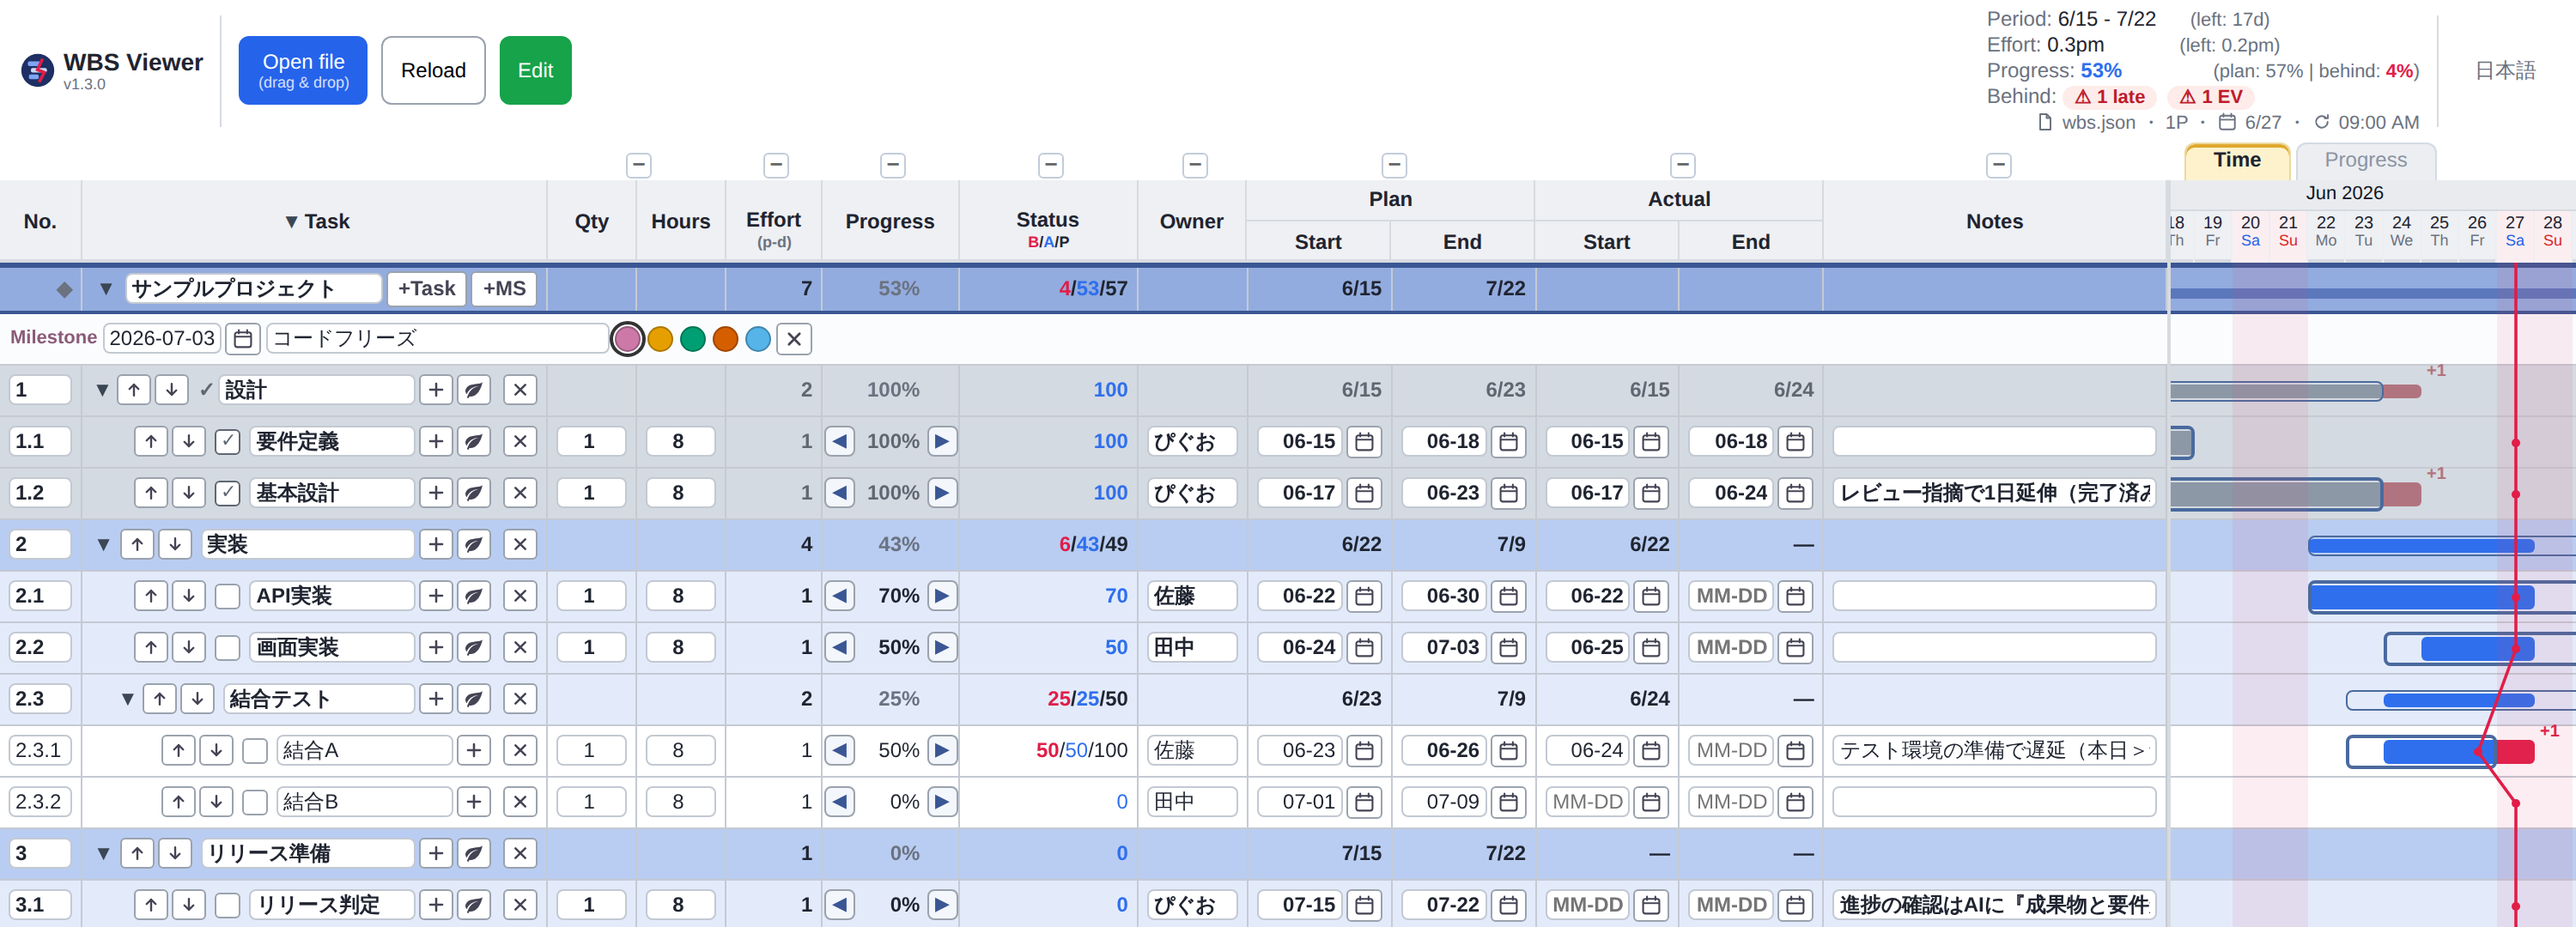
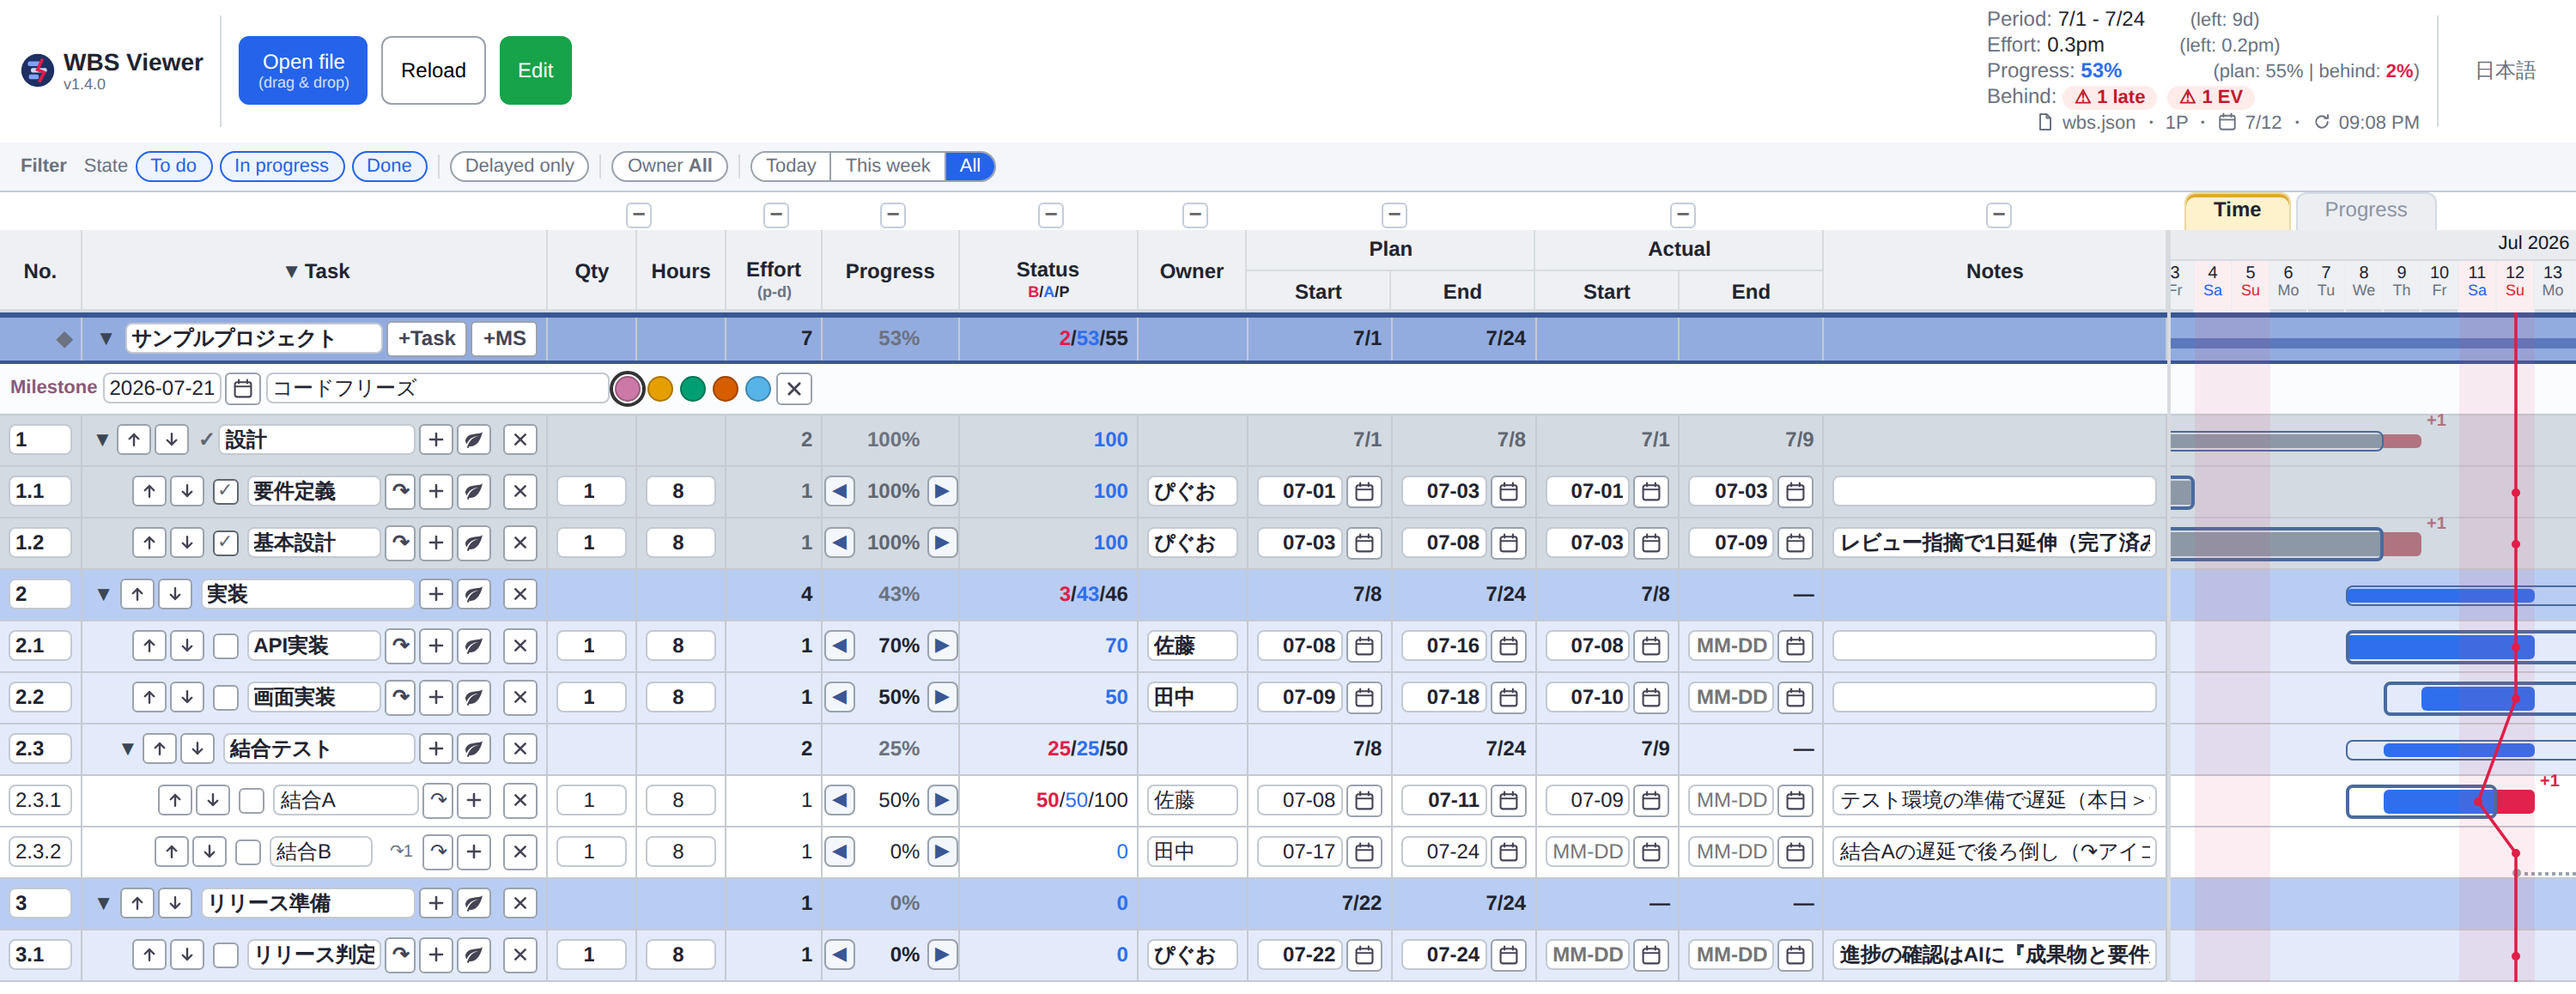
docs: v1.4.0向けにREADME/スクリーンショットを更新
- バージョン表記をv1.4.0に更新（wbs_viewer.html）
- 新機能を反映：フィルタバー（状態/遅延/担当/期間の4軸）・リスケ履歴
- 全スクリーンショットを撮り直し（ja/en × time/progress/edit/guide-edit-on）
  新機能（フィルタバー・トレイル・↷Nバッジ）が写り込む構図に
- 新規スクリーンショット追加：リスケ履歴の吹き出し（screenshot-history）
- wbs_sample.jsonを本日基準に健全化（日付の経年劣化を解消）＋
  リスケ履歴のデモを1件追加（結合Bタスク）
- golden/pixel baselineをバージョン文字列変更に合わせて撮り直し（全29スイートGREEN）

diff --git a/wbs_viewer.html b/wbs_viewer.html
@@ -251,7 +251,7 @@
 </head>
 <body>
   <div id="topbar">
-    <span class="title" id="brandTitle"><svg class="logo" width="20" height="20" viewBox="0 0 20 20" xmlns="http://www.w3.org/2000/svg"><circle cx="10" cy="10" r="9.6" fill="#1e2f63"/><rect x="4.2" y="4.8" width="7.5" height="2.7" rx="1" fill="#7da4f7"/><rect x="6" y="8.6" width="9.3" height="2.7" rx="1" fill="#cdd9f5"/><rect x="4.8" y="12.4" width="5.8" height="2.7" rx="1" fill="#7da4f7"/><polyline points="12.8,3.2 9.8,9.6 13.8,11.2 10.8,16.8" stroke="#e11d48" stroke-width="1.8" fill="none"/></svg><span style="display:flex;flex-direction:column"><span class="brand">WBS<span class="brand-x"> Viewer</span></span><span class="ver">v1.3.0</span></span></span>
+    <span class="title" id="brandTitle"><svg class="logo" width="20" height="20" viewBox="0 0 20 20" xmlns="http://www.w3.org/2000/svg"><circle cx="10" cy="10" r="9.6" fill="#1e2f63"/><rect x="4.2" y="4.8" width="7.5" height="2.7" rx="1" fill="#7da4f7"/><rect x="6" y="8.6" width="9.3" height="2.7" rx="1" fill="#cdd9f5"/><rect x="4.8" y="12.4" width="5.8" height="2.7" rx="1" fill="#7da4f7"/><polyline points="12.8,3.2 9.8,9.6 13.8,11.2 10.8,16.8" stroke="#e11d48" stroke-width="1.8" fill="none"/></svg><span style="display:flex;flex-direction:column"><span class="brand">WBS<span class="brand-x"> Viewer</span></span><span class="ver">v1.4.0</span></span></span>
     <span class="tdiv"></span>
     <button id="openBtn" class="primary">ファイルを開く<span class="sub">（ドラッグ&amp;ドロップ）</span></button>
     <button id="refreshBtn">更新</button>

diff --git a/README.md b/README.md
@@ -43,9 +43,12 @@
 - **データは事実だけの JSON 1枚** — 持つのは予定と実績の日付だけ。工数（数量×時間÷8・人日）・進捗・イナズマ線は**すべて自動計算**で、手でメンテする数字がない
 - **編集は3とおり** — ブラウザ内編集（自動保存）／テキストエディタ／**AIチャット**（`CLAUDE.md` 同梱で Claude Code がデータ形式を理解済み）
 - **祝日・土日が一目** — トップレベルの `holidays` で**祝日を日付ヘッダに赤字**、ガントの**土日＋祝日の列を全高で薄ピンク**。残り営業日の計算も土日＋祝日を除外（同梱データに2026年の日本の祝日入り）
+- **フィルタバー（4軸の絞り込み）** — 左表の真上に**状態（未着手／進行中／完了）・遅延のみ・担当（複数選択）・期間（今日／今週／全期間）**の4軸。軸内はOR・軸間はANDで自由に重ねられる（例：進行中 かつ 遅延 かつ 自分の担当）。**表示専用**で `wbs.json` も横軸（時間範囲）も変更しない — 隠す＝目隠しであって削除ではない
+- **リスケ履歴（予定変更の経緯を記録）** — 編集モードの **↷ ボタン**でリスケを確定すると、予定が自動更新されると同時に**理由つきで履歴に記録**（`_planLog`）。ガントには直近の変更だけ**トレイル（点線）**で表示され、タスク名の **↷N** をクリックすると**全履歴＋当初比**が吹き出しで見える。日付セルを直接編集する「訂正」とは区別され、訂正は履歴に残らない
 - ほか：複数プロジェクト・折りたたみ・マイルストーン線・完了グレー＋✓・備考URLの自動リンク・日本語/English UI 切替
 
-> **v1.3 の主な追加**（v1.2 保守期間の成果）：① 編集モードで**入れ子（子タスク）追加**／② **マイルストーンをGUIで編集**（日付・名前・5色プリセット）／③ **ロゴ・バージョンを隠すプレーン表示**（タイトルをクリックで切替）／④ **祝日設定＋土日/祝日の列ピンク**（残り営業日も祝日除外）／⑤ アイコン整理・ツールチップ・編集列幅などの細部改善。
+> **v1.4 の主な追加**：① **フィルタバー**（状態／遅延／担当／期間の4軸絞り込み）／② **リスケ履歴**（`_planLog`・↷ボタンで記録・トレイル表示・クリックで全履歴）。
+> v1.3（v1.2 保守期間の成果）：① 編集モードで**入れ子（子タスク）追加**／② **マイルストーンをGUIで編集**（日付・名前・5色プリセット）／③ **ロゴ・バージョンを隠すプレーン表示**（タイトルをクリックで切替）／④ **祝日設定＋土日/祝日の列ピンク**（残り営業日も祝日除外）／⑤ アイコン整理・ツールチップ・編集列幅などの細部改善。
 
 ## 画面の操作
 
@@ -58,8 +61,14 @@
 
 **「編集」ボタン**を ON にすると画面上から直接編集できます。変更は**約0.4秒後に `wbs.json` へ自動保存**（保存状態は右上に常時表示）。
 
-- できること：各フィールドのその場編集（No./名前/数量/時間/担当/日付/備考。**工数は自動計算**で編集対象外）。日付は `611`・`6/11` 等の短縮入力／`YYYY-MM-DD`／📅 カレンダー（今年は `MM-DD` 表示）／追加 `＋`／削除 `✕`（確認あり）／上下移動 `⬆⬇`／**入れ子（子タスク）の追加**（リーフを集計ノードに昇格して子をぶら下げ・工数は保存）／**マイルストーン編集**（プロジェクト行の `＋MS`・日付・名前・5色プリセット）
+- できること：各フィールドのその場編集（No./名前/数量/時間/担当/日付/備考。**工数は自動計算**で編集対象外）。日付は `611`・`6/11` 等の短縮入力／`YYYY-MM-DD`／📅 カレンダー（今年は `MM-DD` 表示）／追加 `＋`／削除 `✕`（確認あり）／上下移動 `⬆⬇`／**入れ子（子タスク）の追加**（リーフを集計ノードに昇格して子をぶら下げ・工数は保存）／**マイルストーン編集**（プロジェクト行の `＋MS`・日付・名前・5色プリセット）／**リスケ（↷ボタン）**（新しい予定・理由を入力して確定すると、予定の更新と履歴記録が同時に行われる）
 - できないこと（JSON 直編集か AI に依頼）：ドラッグ&ドロップ並び替え／別の親への移動／No. の自動振り直し
+
+### 予定変更の経緯を残す（リスケ履歴）
+
+「なぜ後ろ倒しになったのか」は、プロジェクトが長引くほど記憶から消えます。**↷ ボタン**でリスケを確定すると、予定の更新と同時に**理由つきで履歴が残ります**。ガントには直近の変更だけが控えめなトレイル（点線）で表示され、行やインクを増やしません。過去の全履歴は **↷N をクリック**すればいつでも読み返せます。
+
+![reschedule history](docs/screenshot-history.png)
 
 <details>
 <summary>⚠ 編集 ON には「ファイルの選び直し」が必要です（クリックで手順を表示）</summary>

diff --git a/README.en.md b/README.en.md
@@ -43,9 +43,12 @@ Updating the tool = overwriting `wbs_viewer.html`; your `wbs.json` data is never
 - **Data is one JSON of facts only** — it holds nothing but plan and actual dates. Effort (qty × hours ÷ 8, person-days), progress, and the inazuma line are all **computed automatically** — no numbers to maintain by hand
 - **Three ways to edit** — in-browser editing (autosave) / any text editor / **AI chat** (ships with `CLAUDE.md` so Claude Code already understands the data format)
 - **Holidays & weekends at a glance** — a top-level `holidays` list renders **holidays in red** in the date header and shades **weekend + holiday columns faint pink full-height**. Remaining-business-days also excludes weekends & holidays (2026 Japanese holidays ship with the sample data)
+- **Filter bar (four axes)** — above the left table: **state (to do / in progress / done), delayed-only, owner (multi-select), and period (today / this week / all)**. OR within an axis, AND across axes — e.g. "in progress AND delayed AND assigned to me". **Display-only**: it never touches `wbs.json` or the time axis — hiding is a blindfold, not a delete
+- **Reschedule history** — press the **↷ button** in edit mode to confirm a reschedule: the plan updates automatically and the change is **recorded with a reason** (`_planLog`). The Gantt shows only the latest change as a subtle dotted **trail**; click the task's **↷N** to see the full history plus the change vs. the original baseline. A plain date-cell edit ("correction") is treated differently and leaves no history
 - Plus: multiple projects, collapsible tree, milestone lines, completed-task graying with ✓, auto-linked URLs in notes, Japanese/English UI
 
-> **Main additions in v1.3** (the fruits of the v1.2 maintenance period): (1) **add nested child tasks** in edit mode; (2) **edit milestones in the GUI** (date, name, 5-color presets); (3) **plain display that hides the logo/version** (toggle by clicking the title); (4) **holiday settings + pink weekend/holiday columns** (remaining business days exclude holidays too); (5) icon cleanup, tooltips, and edit-column-width polish.
+> **Main additions in v1.4**: (1) **filter bar** (state / delay / owner / period, four axes); (2) **reschedule history** (`_planLog`, recorded via the ↷ button, shown as a trail, full history on click).
+> v1.3 (the fruits of the v1.2 maintenance period): (1) **add nested child tasks** in edit mode; (2) **edit milestones in the GUI** (date, name, 5-color presets); (3) **plain display that hides the logo/version** (toggle by clicking the title); (4) **holiday settings + pink weekend/holiday columns** (remaining business days exclude holidays too); (5) icon cleanup, tooltips, and edit-column-width polish.
 
 ## Working the screen
 
@@ -58,8 +61,14 @@ Updating the tool = overwriting `wbs_viewer.html`; your `wbs.json` data is never
 
 Turn the **Edit** button ON to edit directly on screen. Changes are **autosaved to `wbs.json` ~0.4 s later** (save status always visible at the top right).
 
-- Available: in-place editing of each field (No./name/qty/hours/owner/dates/notes — **effort is auto-computed**, not editable). Dates accept shorthand like `611`/`6/11`, `YYYY-MM-DD`, or the 📅 picker (this year shows `MM-DD`); add `＋`, delete `✕` (with confirmation), reorder `⬆⬇`; **add nested child tasks** (a leaf is promoted to a summary node and the child hangs under it, effort preserved); **edit milestones** (`＋MS` on a project row — date, name, 5-color presets)
+- Available: in-place editing of each field (No./name/qty/hours/owner/dates/notes — **effort is auto-computed**, not editable). Dates accept shorthand like `611`/`6/11`, `YYYY-MM-DD`, or the 📅 picker (this year shows `MM-DD`); add `＋`, delete `✕` (with confirmation), reorder `⬆⬇`; **add nested child tasks** (a leaf is promoted to a summary node and the child hangs under it, effort preserved); **edit milestones** (`＋MS` on a project row — date, name, 5-color presets); **reschedule** (the **↷ button** — enter a new plan and a reason, and confirming updates the plan while recording the change)
 - Not supported (edit the JSON or ask the AI): drag-and-drop reordering / moving to a different parent / automatic renumbering
+
+### Recording why a plan changed (reschedule history)
+
+"Why did this slip?" is the first thing everyone forgets once a project drags on. Confirming a reschedule via the **↷ button** updates the plan and **records the reason** at the same time. The Gantt shows only the latest change as a subtle dotted trail — it never adds rows or extra ink. The full history is always one click away via **↷N**.
+
+![reschedule history](docs/screenshot-history.en.png)
 
 <details>
 <summary>⚠ Enabling edit mode requires re-selecting the file (click for steps)</summary>
